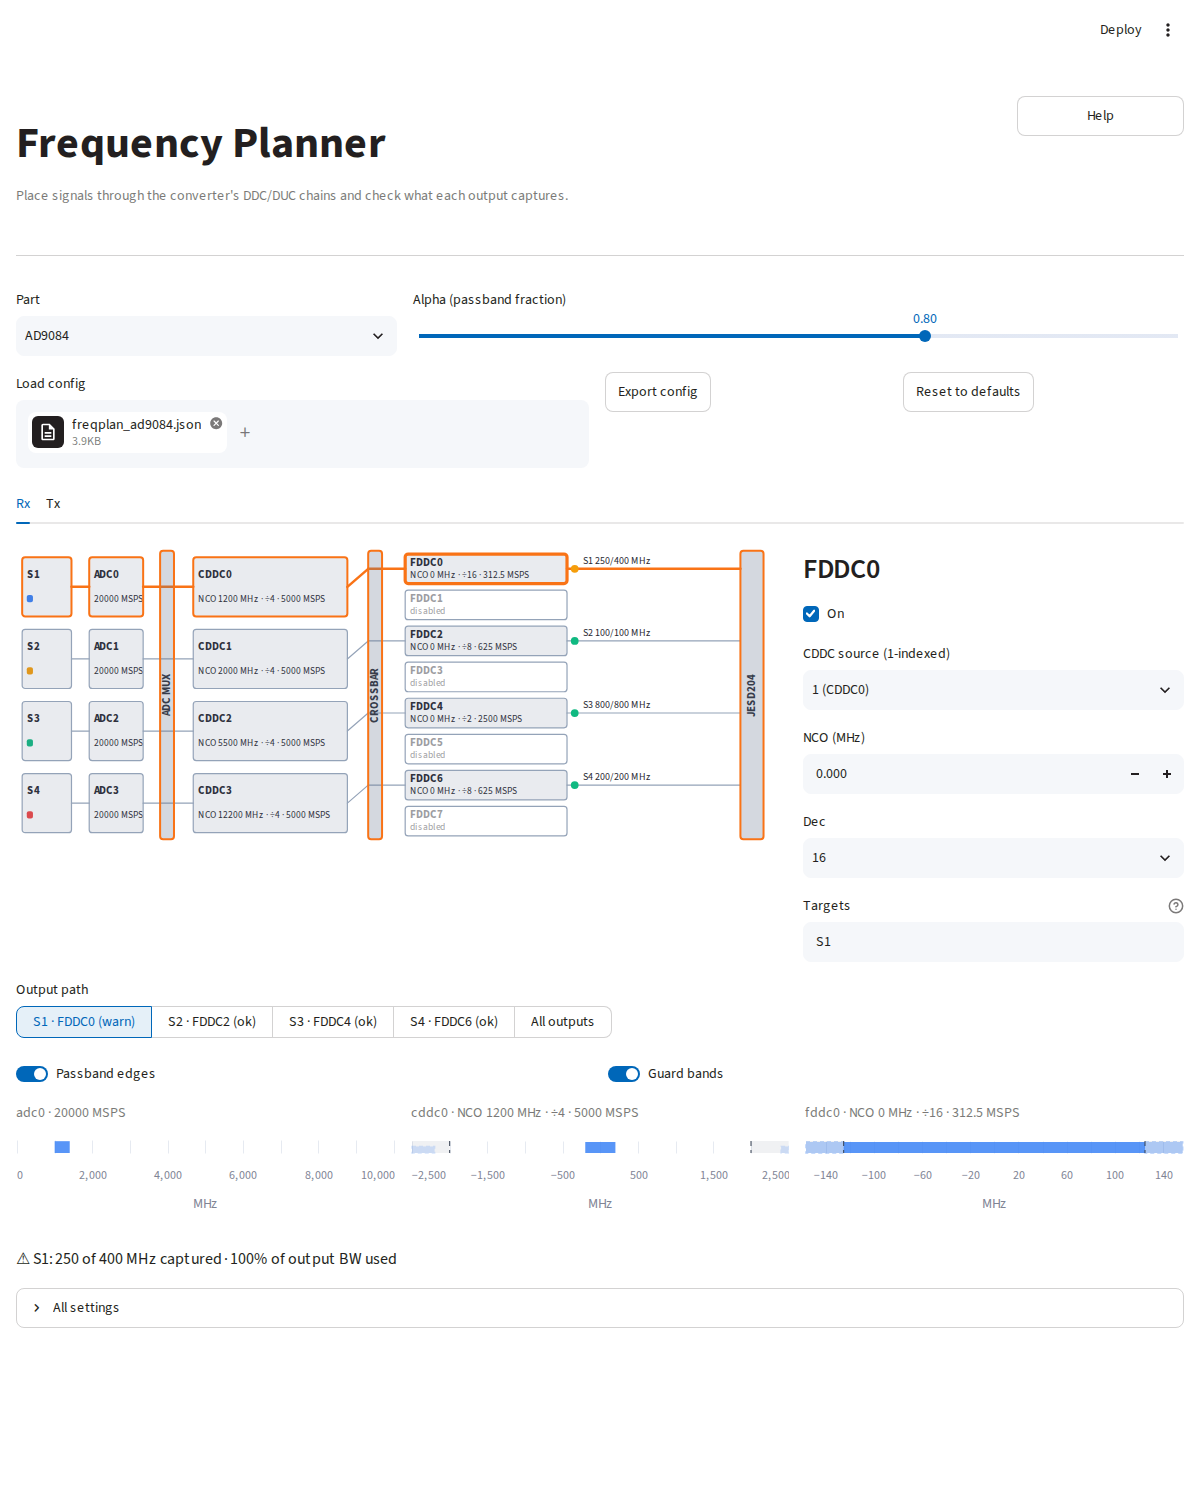
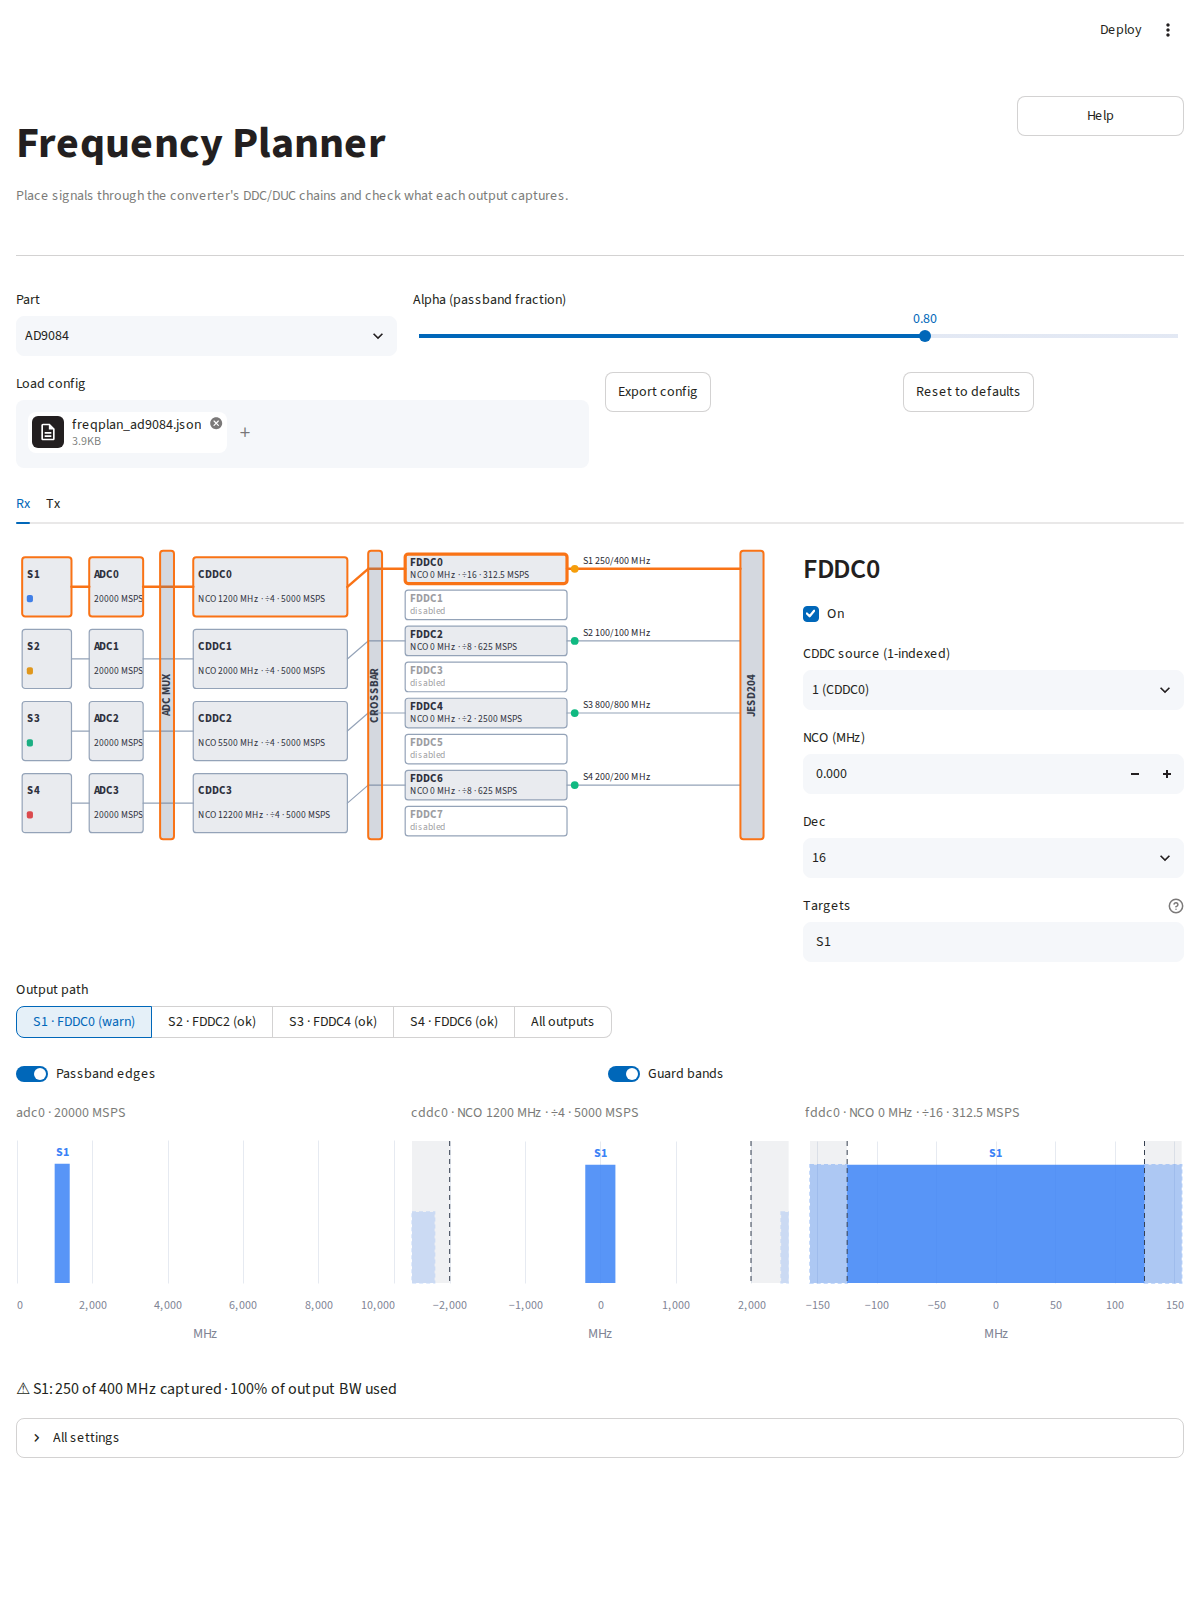
feat(explorer): taller, labelled spectrum charts in the frequency planner
Raise path spectrum charts from 90 px to 220 px, name each signal above its
bar, and thin the x-axis ticks so the narrow three-column layout stays
readable. Recapture the doc screenshots.

diff --git a/adijif/tools/explorer/src/pages/helpers/freqplan_charts.py b/adijif/tools/explorer/src/pages/helpers/freqplan_charts.py
@@ -16,7 +16,7 @@ PALETTE = [
     "#14b8a6",
     "#84cc16",
 ]
-CHART_HEIGHT = 90
+CHART_HEIGHT = 220
 _REAL_KINDS = ("adc", "dac")
 _OPACITY_PRIMARY = 0.85
 _OPACITY_IMAGE = 0.45
@@ -130,10 +130,11 @@ def stage_chart(
     dom_hi = 2 * half if stage.kind == "dac" else half
     scale = alt.Scale(domain=[dom_lo, dom_hi], nice=False)
     pb = stage.passband_hz / 1e6
-    ax = alt.Axis(title="MHz")
+    ax = alt.Axis(title="MHz", tickCount=5, labelOverlap=True)
     x = alt.X("lo_mhz:Q", scale=scale, axis=ax)
     x2 = alt.X2("hi_mhz:Q")
-    y = alt.Y("y0:Q", axis=None, scale=alt.Scale(domain=[0, 1.1]))
+    y_scale = alt.Scale(domain=[0, 1.2])
+    y = alt.Y("y0:Q", axis=None, scale=y_scale)
     y2 = alt.Y2("height:Q")
 
     rows = _clip_rows(spans_to_rows(stage.spans, colors), dom_lo, dom_hi)
@@ -147,8 +148,8 @@ def stage_chart(
     layers: list[alt.Chart] = []
     if show_alias and not real and pb < half:
         guards = [
-            {"lo_mhz": pb, "hi_mhz": half, "y0": 0, "height": 1.1},
-            {"lo_mhz": -half, "hi_mhz": -pb, "y0": 0, "height": 1.1},
+            {"lo_mhz": pb, "hi_mhz": half, "y0": 0, "height": 1.2},
+            {"lo_mhz": -half, "hi_mhz": -pb, "y0": 0, "height": 1.2},
         ]
         layers.append(
             alt.Chart(alt.Data(values=guards))
@@ -196,6 +197,22 @@ def stage_chart(
                     alt.value(1.0),
                 ),
                 tooltip=tip,
+            )
+        )
+
+    named = [r for r in wide if not r["image"] and not r["attenuated"]]
+    if named:
+        for r in named:
+            r["mid_mhz"] = (r["lo_mhz"] + r["hi_mhz"]) / 2
+            r["label_y"] = r["height"] + 0.04
+        layers.append(
+            alt.Chart(alt.Data(values=named))
+            .mark_text(baseline="bottom", fontSize=12, fontWeight="bold")
+            .encode(
+                x=alt.X("mid_mhz:Q", scale=scale, axis=ax),
+                y=alt.Y("label_y:Q", axis=None, scale=y_scale),
+                text="signal:N",
+                color=color,
             )
         )
 

diff --git a/tests/tools/test_freqplan_charts.py b/tests/tools/test_freqplan_charts.py
@@ -91,3 +91,19 @@ def test_dac_chart_draws_fs2_mirror():
     spec = stage_chart(tx.stages["dac0"], {}, True, True).to_dict()
     text = str(spec)
     assert "16800" in text
+
+
+def test_stage_chart_tall_with_signal_labels() -> None:
+    """Spectrum charts are tall enough to read and name each signal."""
+    from adijif.freqplan import compute_rx, default_rx_plan
+
+    plan = default_rx_plan()
+    stage = compute_rx(plan).stages["fddc0"]
+    d = stage_chart(stage, signal_colors(["S1"]), True, True).to_dict()
+    assert d["height"] >= 200
+    texts = [
+        layer for layer in d["layer"]
+        if (layer.get("mark", {}) or {}).get("type") == "text"
+        or layer.get("mark") == "text"
+    ]
+    assert texts, "expected a text layer naming the signals"
